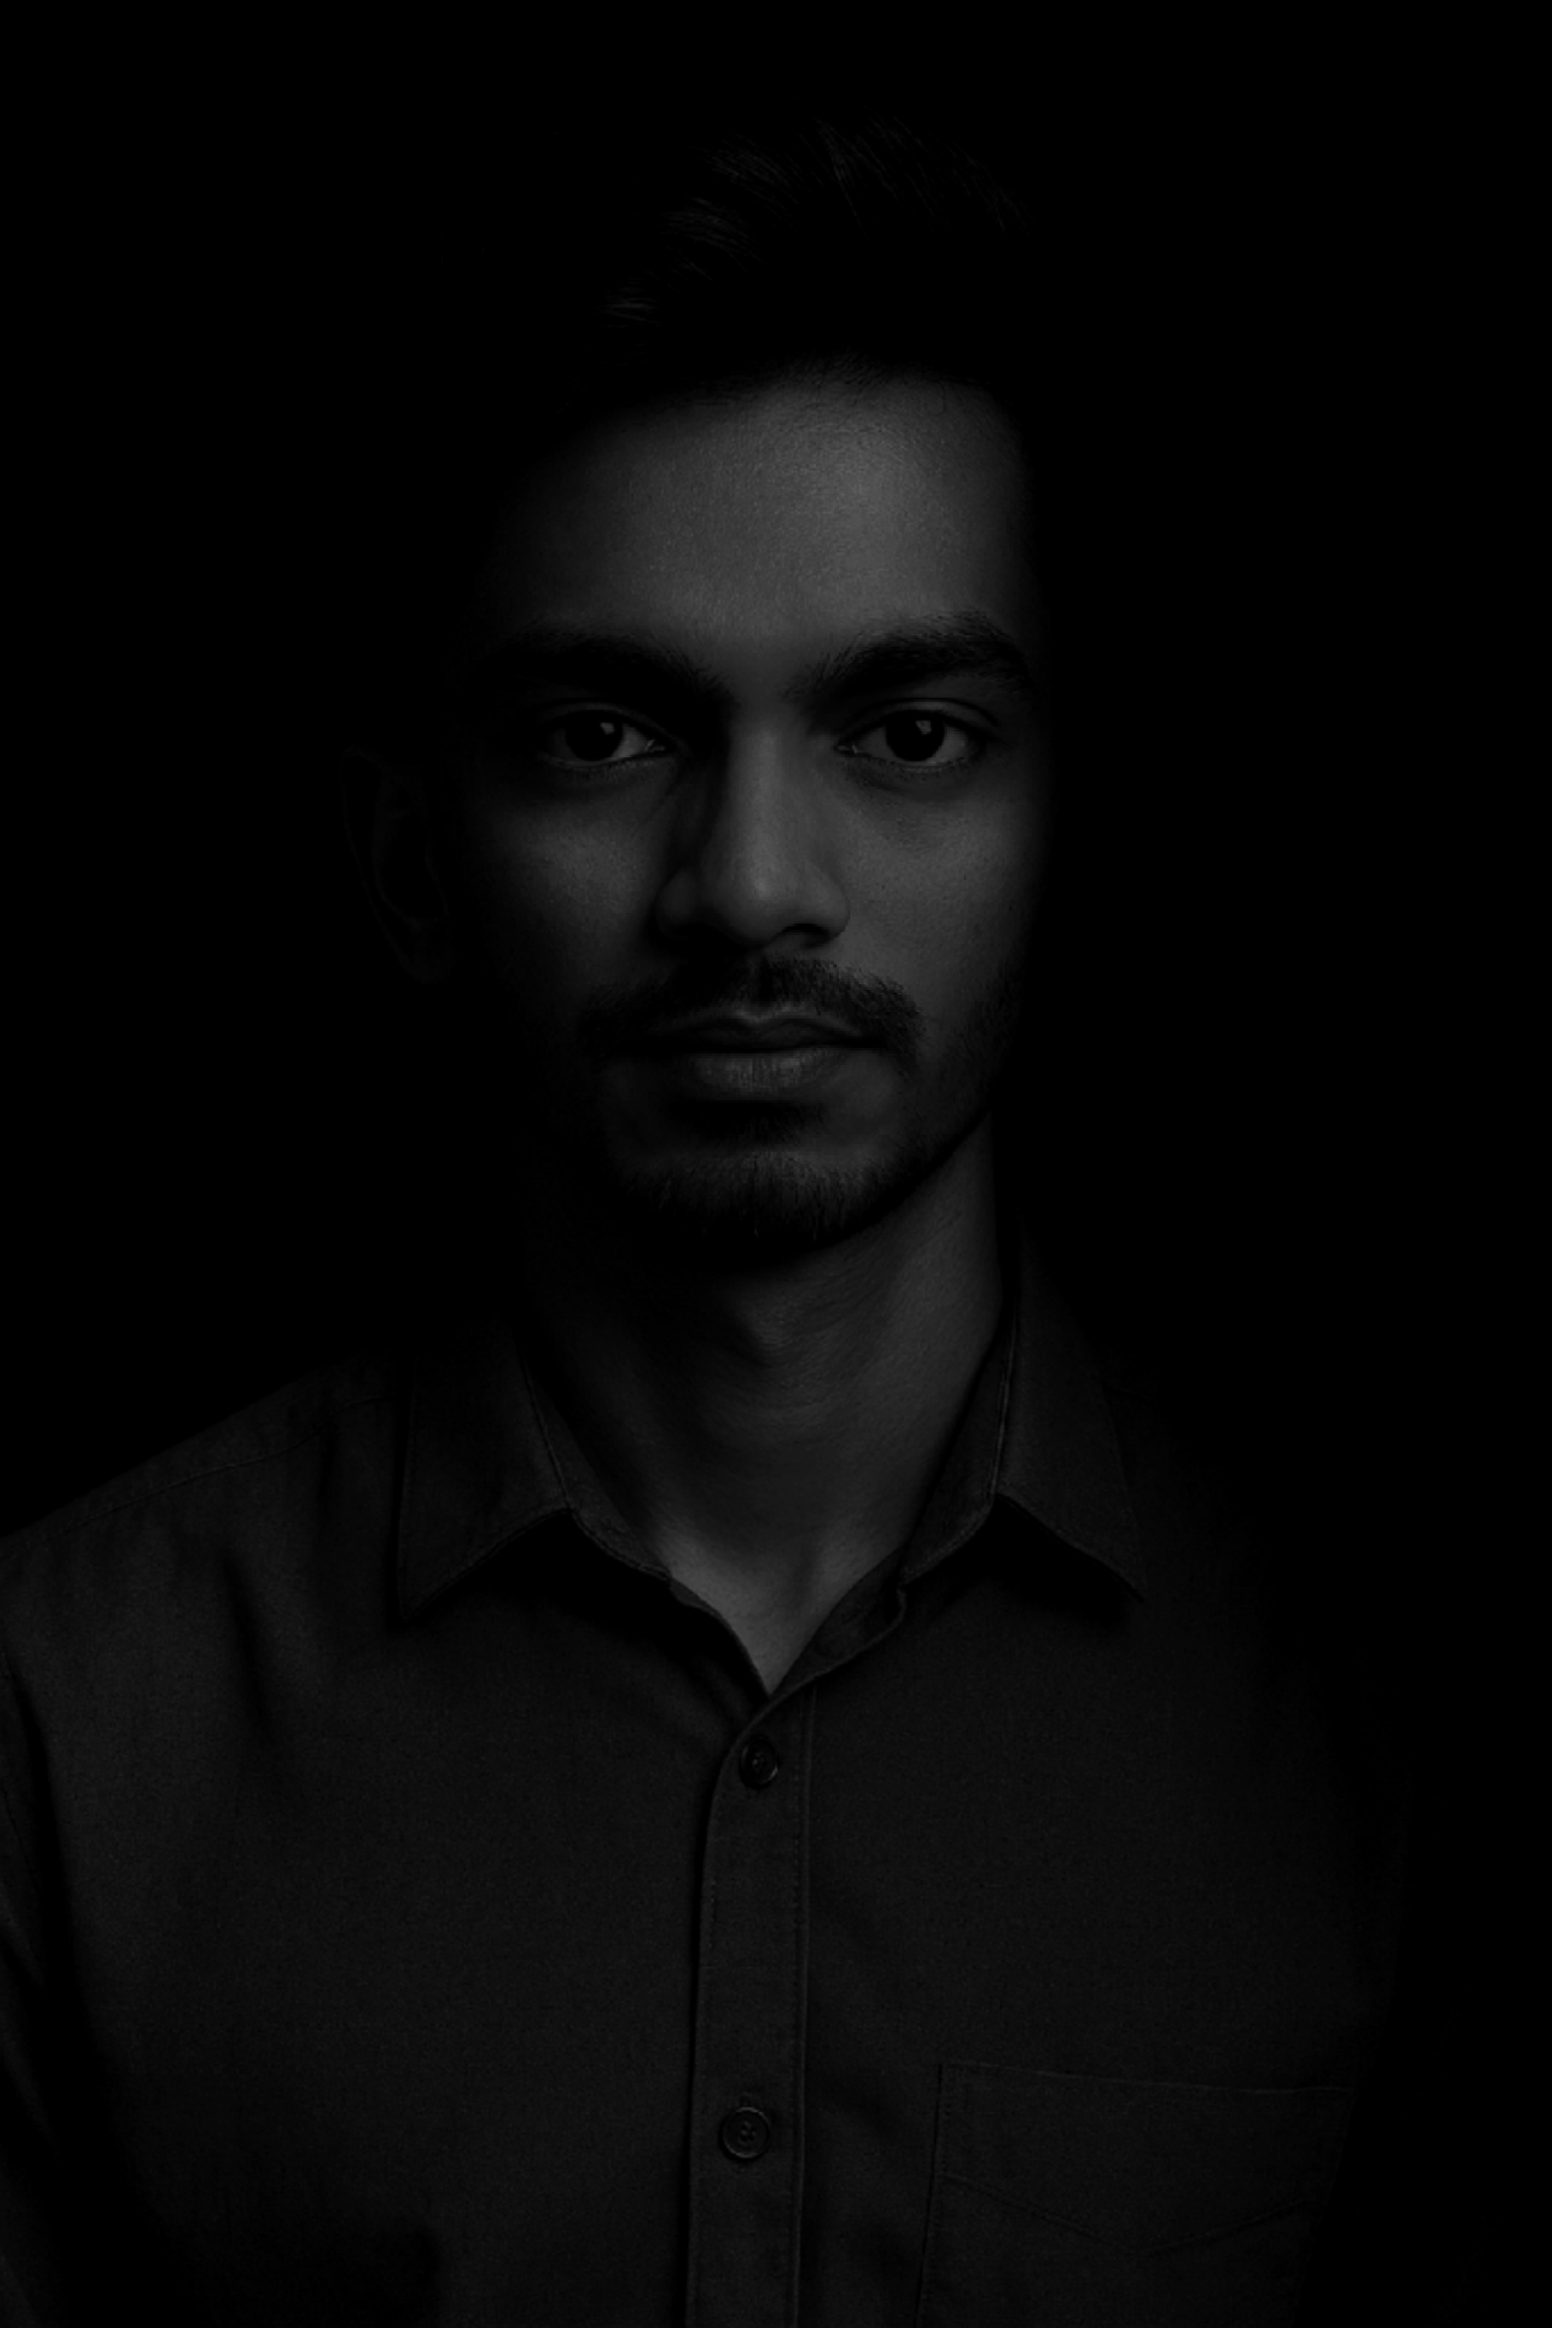
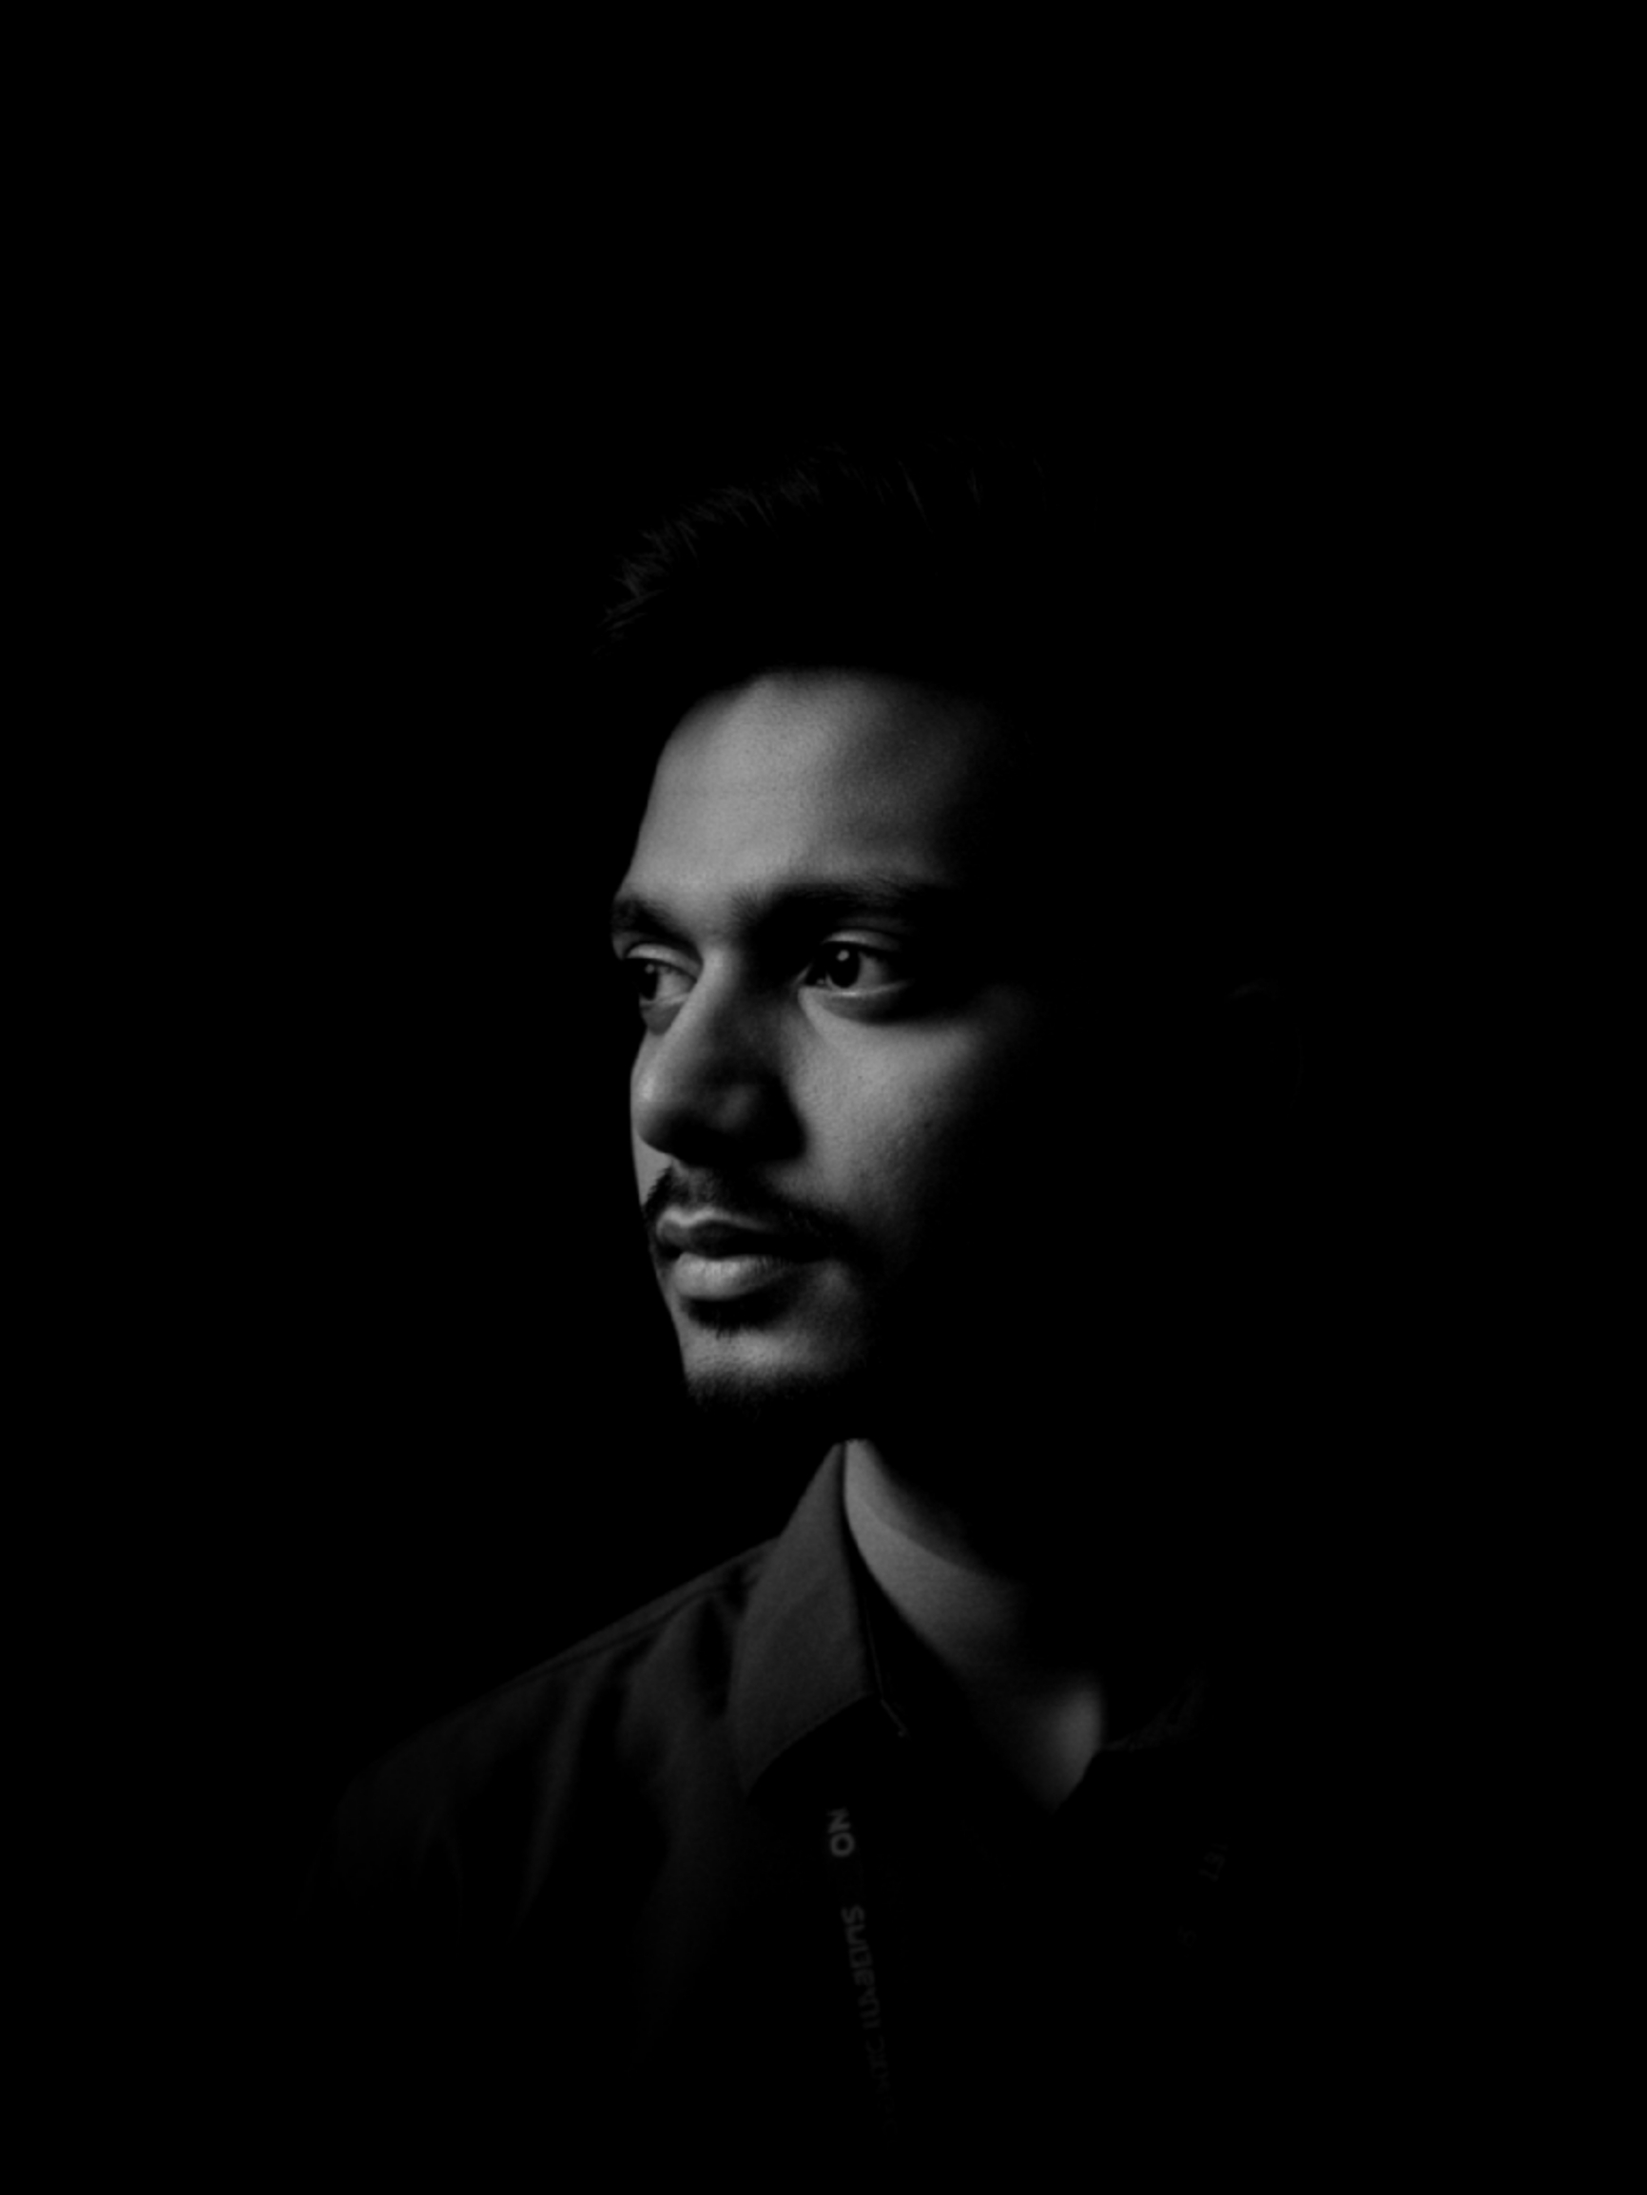
Update header info and images in index.html
Revised header section to include current workplace and address. Updated myimg.jpg and myimg.png with new image versions.

Changed region(s): [[0.3125, 0.1559, 0.6562, 0.7796], [0.625, 0.7796, 0.6875, 0.8107]]

diff --git a/index.html b/index.html
@@ -155,7 +155,8 @@
   <!-- Header/Home -->
   <header class="w3-container w3-padding-32 w3-center w3-black" id="home">
     <h1 class="w3-jumbo"><span class="w3-hide-small">I'm</span> Sayedun Muntaka</h1>
-    <p>Part Time Student, Full Time Worker</p>
+    <p>Working at <a href="https://www.mirazit.com/">Meraz IT Solution</a></p>
+    <p>Multiplan Center, New Elephant Rd, Dhaka 1205</p>
     <img src="myimg.png" alt="Sayedun Munataka's photo error loading" class="w3-image" width="550" height="auto">
   </header>
 
